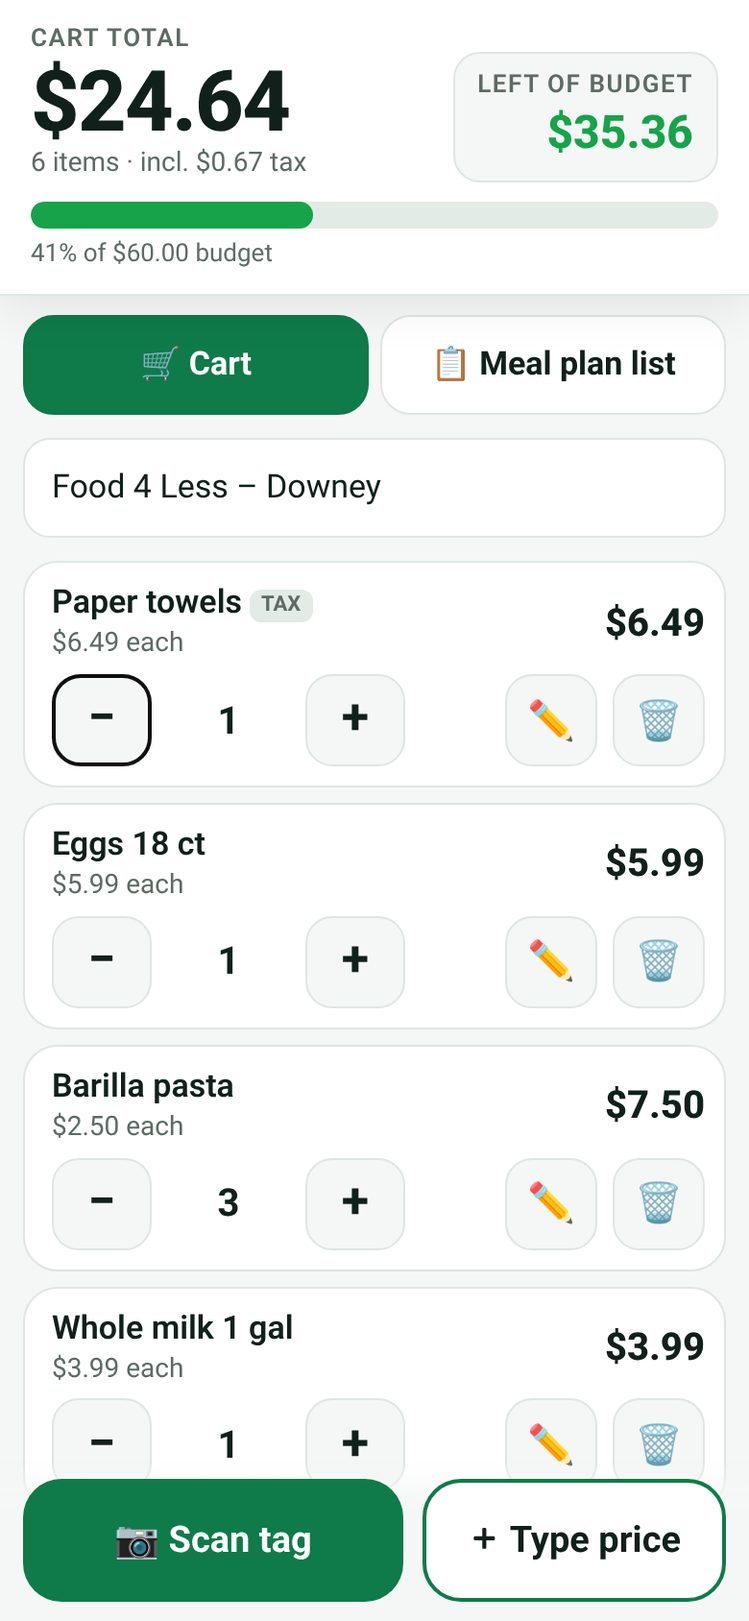
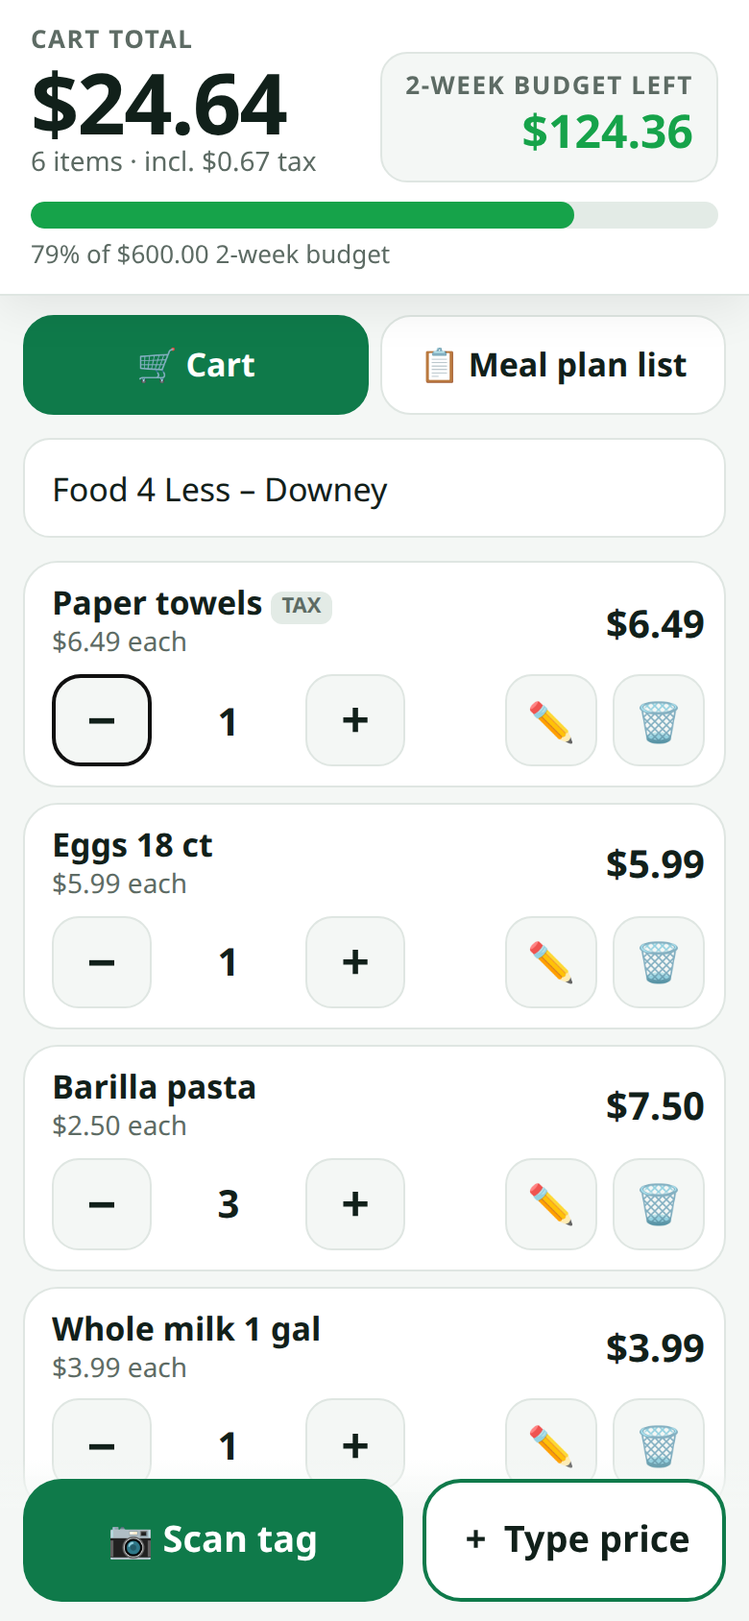
Count every spend figure as the full two-week trip
The cart budget, spent-so-far, and list estimate all come from the
combined both-weeks list and its check-offs. The budget is labeled as
a two-week amount; the saved number is left as stored.

diff --git a/app.js b/app.js
@@ -34,23 +34,26 @@
 
   // ---------------- render ----------------
   function totals() { return Core.computeTotals(state.items, { taxOn: state.taxOn, rate: state.taxRate, budget: state.budget }); }
+  /** Cart register total, plus the combined 2-week list (check-offs and what is still to buy). */
+  function trip() { var t = totals(); return { cart: t, spend: Plan.tripSpend(curItems(), state.items, t.total) }; }
 
   function render() {
-    var t = totals();
+    var now = trip(), t = now.cart, spend = now.spend;
     $('total').textContent = money(t.total);
     var parts = [fmtQty(t.count) + (t.count === 1 ? ' item' : ' items')];
     if (state.taxOn && t.taxableSubtotal > 0) parts.push('incl. ' + money(t.tax) + ' tax');
     else if (state.taxOn) parts.push('tax on taxable items: ' + state.taxRate + '%');
     $('subline').textContent = parts.join(' · ');
+    var against = Core.computeTotals([{ price: spend.projected, qty: 1 }], { taxOn: false, budget: state.budget });
     var sum = $('summary');
-    sum.dataset.level = t.level;
-    if (t.budget > 0) {
-      $('remaining').textContent = t.remaining < 0 ? money(-t.remaining) + ' over' : money(t.remaining);
-      var pct = Math.min(100, Math.round(t.pct * 100));
+    sum.dataset.level = against.level;
+    if (against.budget > 0) {
+      $('remaining').textContent = against.remaining < 0 ? money(-against.remaining) + ' over' : money(against.remaining);
+      var pct = Math.min(100, Math.round(against.pct * 100));
       $('barFill').style.width = pct + '%';
       $('bar').setAttribute('aria-valuenow', pct);
-      $('barCaption').textContent = t.level === 'over' ? 'Over budget by ' + money(-t.remaining) + ' — budget ' + money(t.budget)
-        : Math.round(t.pct * 100) + '% of ' + money(t.budget) + ' budget';
+      $('barCaption').textContent = against.level === 'over' ? 'Over the 2-week budget by ' + money(-against.remaining) + ' — budget ' + money(against.budget)
+        : Math.round(against.pct * 100) + '% of ' + money(against.budget) + ' 2-week budget';
     } else {
       $('remaining').textContent = 'Set budget';
       $('barFill').style.width = '0%';
@@ -220,7 +223,7 @@
     save(); render(); closeSheet(); buzz(25);
     if (wasAdd) {
       var t = totals();
-      toast('Added ' + money(Math.round(Math.round(price * 100) * qty) / 100) + (listName ? ' · ✓ ' + listName : '') + ' · total ' + money(t.total) + (t.level === 'over' ? ' — over budget!' : ''));
+      toast('Added ' + money(Math.round(Math.round(price * 100) * qty) / 100) + (listName ? ' · ✓ ' + listName : '') + ' · cart ' + money(t.total) + (trip().spend.projected > state.budget && state.budget > 0 ? ' — over the 2-week budget' : ''));
     }
   });
 
@@ -234,11 +237,11 @@
   $('dlgWrap').addEventListener('click', function (e) { if (e.target === this) closeDlg(); });
 
   $('budgetBtn').onclick = function () {
-    openDlg('Grocery budget',
-      '<div class="stack"><label class="field"><span>Budget for this week’s groceries</span><div class="price-input"><span>$</span><input id="bIn" inputmode="decimal" placeholder="0.00" value="' + (state.budget ? state.budget.toFixed(2) : '') + '"></div></label>' +
+    openDlg('2-week grocery budget',
+      '<div class="stack"><label class="field"><span>Budget for both weeks together</span><div class="price-input"><span>$</span><input id="bIn" inputmode="decimal" placeholder="0.00" value="' + (state.budget ? state.budget.toFixed(2) : '') + '"></div></label>' +
       '<div class="chips">' + [100, 150, 200, 250, 325, 400].map(function (v) { return '<button type="button" class="chip" data-b="' + v + '">$' + v + '</button>'; }).join('') + '</div>' +
       '<button class="btn primary xl" id="bSave">Save budget</button><button class="btn ghost" id="bClear">No budget</button>' +
-      '<p class="muted">The bar turns amber at 80% and red when you go over. Budget includes tax on taxable items.</p></div>',
+      '<p class="muted">This is the amount for the whole 2-week trip. Saving keeps whatever number is here — it is not recalculated. The bar turns amber at 80% and red when the trip goes over. Tax on taxable cart items is included.</p></div>',
       function (root) {
         var inp = root.querySelector('#bIn'); setTimeout(function () { inp.focus(); inp.select(); }, 60);
         root.querySelector('.chips').onclick = function (e) { var c = e.target.closest('.chip'); if (c) { inp.value = (+c.dataset.b).toFixed(2); } };
@@ -504,19 +507,20 @@
 
   var expandedDinners = {};
   function renderPlan() {
-    var wk = Meals.weeks[plan.week], items = curItems(), s = Plan.summary(items), t = totals();
+    var wk = Meals.weeks[plan.week], items = curItems(), t = totals();
+    var spend = Plan.tripSpend(items, state.items, t.total);
     Array.prototype.forEach.call($('weekSeg').children, function (b) { var on = b.dataset.week === plan.week; b.classList.toggle('on', on); b.setAttribute('aria-checked', on); });
-    var projected = Core.round2(t.total + s.remaining);
+    var projected = spend.projected;
     var level = !state.budget ? 'none' : projected > state.budget ? 'over' : projected >= 0.9 * state.budget ? 'warn' : 'ok';
-    var pct = s.total ? Math.round(s.checked / s.total * 100) : 0;
+    var pct = spend.total ? Math.round(spend.checked / spend.total * 100) : 0;
     $('planStats').dataset.level = level;
     $('planStats').innerHTML =
-      '<div class="ps-row"><div><div class="label">Estimated remaining</div><div class="ps-big" id="planRemaining">' + money(s.remaining) + '</div>' +
-      '<div class="sub">' + s.left + ' item' + (s.left === 1 ? '' : 's') + ' left' + (s.leftNoPrice ? ' (' + s.leftNoPrice + ' to check at home)' : '') + '</div></div>' +
-      '<div class="ps-right"><div class="label">Scanned</div><div class="ps-mid" id="planScanned">' + money(s.scanned) + '</div><div class="sub">' + s.scannedCount + ' list item' + (s.scannedCount === 1 ? '' : 's') + '</div></div></div>' +
+      '<div class="ps-row"><div><div class="label">Estimated remaining</div><div class="ps-big" id="planRemaining">' + money(spend.remaining) + '</div>' +
+      '<div class="sub">' + spend.left + ' item' + (spend.left === 1 ? '' : 's') + ' left' + (spend.leftNoPrice ? ' (' + spend.leftNoPrice + ' to check at home)' : '') + '</div></div>' +
+      '<div class="ps-right"><div class="label">Spent so far</div><div class="ps-mid" id="planSpent">' + money(spend.spent) + '</div><div class="sub">' + spend.scannedCount + ' list price' + (spend.scannedCount === 1 ? '' : 's') + '</div></div></div>' +
       '<div class="bar" role="progressbar" aria-label="List checked off" aria-valuemin="0" aria-valuemax="100" aria-valuenow="' + pct + '"><div class="fill" style="width:' + pct + '%"></div></div>' +
-      '<div class="bar-caption" id="planCaption">' + s.checked + ' of ' + s.total + ' checked · list estimate ' + money(s.estTotal) +
-      (state.budget ? '<br>Cart ' + money(t.total) + ' + est. remaining ' + money(s.remaining) + ' ≈ <b>' + money(projected) + '</b> of ' + money(state.budget) + ' budget' : '') + '</div>';
+      '<div class="bar-caption" id="planCaption">' + spend.checked + ' of ' + spend.total + ' checked · list estimate ' + money(spend.listTotal) +
+      (state.budget ? '<br>Spent ' + money(spend.spent) + ' + est. remaining ' + money(spend.remaining) + ' ≈ <b>' + money(projected) + '</b> of ' + money(state.budget) + ' 2-week budget' : '') + '</div>';
     var madeCount = madeSync.count(plan.week, wk.dinners);
     $('madeCount').textContent = madeCount.made + ' of ' + madeCount.total + ' made';
     $('dinners').innerHTML = wk.dinners.map(function (d, i) {
@@ -552,7 +556,7 @@
             '<span class="pmeta">' + esc(it.qty || '') + '</span></button>' +
             '<button class="pprice" data-act="menu" aria-label="Options">' + price + '</button></li>';
         }).join('') + '</ul></section>';
-    }).join('') || '<div class="empty"><p class="big">List is empty</p><p>Tap <b>Add item</b> or <b>Reset week</b>.</p></div>';
+    }).join('') || '<div class="empty"><p class="big">List is empty</p><p>Tap <b>Add item</b> or <b>Reset list</b>.</p></div>';
     $('planNote').textContent = Plan.source(Meals, listKey()).note;
     var nRemoved = Object.keys(plan.weeks[listKey()].removed).length;
     $('planRestoreBtn').hidden = !nRemoved;

diff --git a/mealplan.js b/mealplan.js
@@ -76,6 +76,36 @@
       total: items.length, checked: nChecked, scannedCount: nScanned, left: nLeft, leftNoPrice: nLeftNoPrice };
   }
 
+  /**
+   * One spend for the whole trip. listItems must be the combined both-weeks list (not one week).
+   * Spent = real prices on that list's check-offs, plus cart lines that are not already one of those check-offs
+   * (cartTotal is the tax-inclusive cart, so tax is counted once). Remaining = unchecked estimates on that same list.
+   * Projected = spent + remaining. The list total is every estimate, checked or not.
+   */
+  function tripSpend(listItems, cartItems, cartTotal) {
+    var s = summary(listItems);
+    var linked = {};
+    listItems.forEach(function (it) {
+      if (it.checked && it.cartId != null) linked[it.cartId] = true;
+    });
+    var linkedCents = 0, pretax = 0;
+    (cartItems || []).forEach(function (c) {
+      var lt = cents(lineTotal(c));
+      pretax += lt;
+      if (linked[c.id]) linkedCents += lt;
+    });
+    var cartCents = cartTotal == null ? pretax : cents(cartTotal);
+    var extraCents = cartCents - linkedCents;
+    if (extraCents < 0) extraCents = 0;
+    var spentCents = cents(s.scanned) + extraCents;
+    var remainingCents = cents(s.remaining);
+    return {
+      listTotal: s.estTotal, spent: spentCents / 100, remaining: s.remaining,
+      projected: (spentCents + remainingCents) / 100, scanned: s.scanned, scannedCount: s.scannedCount,
+      checked: s.checked, total: s.total, left: s.left, leftNoPrice: s.leftNoPrice
+    };
+  }
+
   /** Link a cart item to a list item (checks it off). Moves the link if the cart item was linked elsewhere. */
   function link(plan, week, itemId, cartItem) {
     unlinkCart(plan, cartItem.id);
@@ -151,7 +181,7 @@
     return state;
   }
 
-  return { source: source, weekItems: weekItems, groupBySection: groupBySection, summary: summary, link: link, unlinkCart: unlinkCart, toggle: toggle,
+  return { source: source, weekItems: weekItems, groupBySection: groupBySection, summary: summary, tripSpend: tripSpend, link: link, unlinkCart: unlinkCart, toggle: toggle,
     sync: sync, markBought: markBought, resetWeek: resetWeek, addCustom: addCustom, removeItem: removeItem, bestMatch: bestMatch,
     normalizePlan: normalizePlan, migrateBudget: migrateBudget, NEW_DEFAULT_BUDGET: NEW_DEFAULT_BUDGET, OLD_DEFAULT_BUDGET: OLD_DEFAULT_BUDGET, BUDGET_V: BUDGET_V };
 });

diff --git a/tests/combined.test.js b/tests/combined.test.js
@@ -32,3 +32,38 @@ test('combined list: plan state, summary and custom-item carry-over', () => {
   assert.equal(s.checked, 1);
   assert.equal(P.normalizePlan(plan, Meals).weeks.both.custom.length, 1, 'no duplicate carry-over on reload');
 });
+
+test('trip spend is the combined list, and a single week does not have its own total', () => {
+  const plan = P.normalizePlan({}, Meals);
+  const both = () => P.weekItems(Meals, plan, 'both', []);
+  const open = P.tripSpend(both(), [], 0);
+  assert.equal(open.listTotal, 451);
+  assert.equal(open.spent, 0);
+  assert.equal(open.remaining, 451);
+  assert.equal(open.projected, 451);
+  assert.equal(open.total, 69);
+  assert.notEqual(open.listTotal, 313);
+  assert.notEqual(open.listTotal, 138);
+  P.toggle(plan, '1', 'garlic');
+  assert.equal(P.tripSpend(both(), [], 0).projected, 451, 'week 1 check-off is not a separate spend');
+  assert.equal(P.tripSpend(both(), [], 0).checked, 0);
+  const garlic = both().find((i) => i.id === 'garlic');
+  P.toggle(plan, 'both', 'garlic');
+  const home = P.tripSpend(both(), [], 0);
+  assert.equal(home.listTotal, 451, 'list total stays the full estimate');
+  assert.equal(home.spent, 0);
+  assert.equal(home.remaining, 451 - garlic.est);
+  const onions = Meals.lists.both.items.find((i) => i.id === 'onions');
+  const cart = [{ id: 1, price: 2.99, qty: 1 }, { id: 2, price: 4, qty: 1 }];
+  P.link(plan, 'both', 'onions', cart[0]);
+  const shop = P.tripSpend(P.weekItems(Meals, plan, 'both', cart), cart, 6.99);
+  assert.equal(shop.spent, 6.99, 'check-off price plus the unlinked cart line, tax included once');
+  assert.equal(shop.remaining, 451 - garlic.est - onions.est);
+  assert.equal(shop.projected, Math.round((shop.spent + shop.remaining) * 100) / 100);
+  assert.equal(shop.listTotal, 451);
+  const grouped = P.groupBySection(Meals, P.weekItems(Meals, P.normalizePlan({}, Meals), 'both', []));
+  const week1 = P.groupBySection(Meals, P.weekItems(Meals, P.normalizePlan({}, Meals), '1', []));
+  assert.equal(Math.round(grouped.reduce((s, g) => s + g.est, 0) * 100) / 100, 451);
+  assert.notEqual(grouped.find((g) => g.id === 'produce').est, week1.find((g) => g.id === 'produce').est);
+  assert.equal(Meals.defaultBudget, 325);
+});

diff --git a/index.html b/index.html
@@ -27,12 +27,12 @@
       <div class="total" id="total">$0.00</div>
       <div class="sub" id="subline">0 items</div>
     </div>
-    <button class="budget-pill" id="budgetBtn" aria-label="Set budget">
-      <span class="label">Left of budget</span>
+    <button class="budget-pill" id="budgetBtn" aria-label="Set 2-week budget">
+      <span class="label">2-week budget left</span>
       <span class="remaining" id="remaining">Set budget</span>
     </button>
   </div>
-  <div class="bar" role="progressbar" aria-label="Budget used" aria-valuemin="0" aria-valuemax="100" id="bar"><div class="fill" id="barFill"></div></div>
+  <div class="bar" role="progressbar" aria-label="2-week budget used" aria-valuemin="0" aria-valuemax="100" id="bar"><div class="fill" id="barFill"></div></div>
   <div class="bar-caption" id="barCaption"></div>
 </header>
 

diff --git a/sw.js b/sw.js
@@ -1,5 +1,5 @@
 /* Tamayo Cart service worker: precache everything (incl. the OCR engine) so the app works offline. */
-var VERSION = 'tamayo-cart-v7'; // bump on every release so phones pick up new files
+var VERSION = 'tamayo-cart-v8'; // bump on every release so phones pick up new files
 var ASSETS = [
   './', './index.html', './styles.css', './parser.js', './meals.js', './recipes.js', './mealplan.js', './cooked.js', './app.js', './manifest.webmanifest',
   './icons/icon-192.png', './icons/icon-512.png', './icons/icon-maskable-512.png', './icons/apple-touch-icon.png',

diff --git a/tests/meal_list_test.py b/tests/meal_list_test.py
@@ -27,7 +27,11 @@ try:
             return ctx, pg
         ctx, page = mk('light')
         page.goto(URL); page.wait_for_load_state('networkidle')
-        check(page.inner_text('#remaining') == '$325.00', 'fresh install: default budget $325 (got %s)' % page.inner_text('#remaining'))
+        check('2-week' in page.inner_text('#budgetBtn').lower(), 'budget pill is labeled as a 2-week amount')
+        check(page.inner_text('#remaining') == '$126.00 over', 'header counts the full $451 trip against the $325 2-week budget (got %s)' % page.inner_text('#remaining'))
+        page.click('#budgetBtn')
+        check('both weeks' in page.inner_text('#dlgBody').lower() and page.input_value('#bIn') == '325.00', 'budget dialog is the 2-week amount and still shows 325.00')
+        page.click('#dlgClose')
 
         page.click('#tabPlan')
         check(page.is_visible('#planView') and not page.is_visible('#cartView'), 'Meal plan tab shows the list view')
@@ -36,6 +40,8 @@ try:
         w1 = dinners(); cap1 = page.inner_text('#planCaption'); rem1 = page.inner_text('#planRemaining')
         check(len(w1) == 7 and w1[0].startswith('Mon Salsa Beef'), 'week 1 shows 7 days of dinners')
         check('list estimate $451.00' in cap1 and rem1 == '$451.00', 'combined 2-week list estimate $451 and est. remaining $451 (%s / %s)' % (rem1, cap1.splitlines()[0]))
+        check('Spent $0.00 + est. remaining $451.00' in cap1 and 'of $325.00 2-week budget' in cap1, 'spend line is the full trip against the 2-week budget (%s)' % cap1.replace('\\n', ' | '))
+        check(page.inner_text('#planSpent') == '$0.00', 'spent so far starts at $0 on the combined list')
         check('both weeks' in page.inner_text('#listHead'), 'one shopping list for both weeks')
         secs = page.eval_on_selector_all('.sec-h span:first-child', 'els => els.map(e => e.textContent)')
         check(secs[0].endswith('Produce') and any('Meat' in s for s in secs) and any('Frozen' in s for s in secs), 'grouped by store section: ' + ', '.join(secs))
@@ -50,7 +56,7 @@ try:
         page.click('#weekSeg [data-week="2"]')
         w2 = dinners(); cap2 = page.inner_text('#planCaption'); rem2 = page.inner_text('#planRemaining')
         check(len(w2) == 7 and w2[0].startswith('Mon White Chicken Chili'), 'week 2 shows its dinners')
-        check('list estimate $451.00' in cap2 and page.locator('.pitem').count() == 69, 'switching dinners to week 2 keeps the same combined list (%s)' % cap2.splitlines()[0])
+        check('list estimate $451.00' in cap2 and 'of $325.00 2-week budget' in cap2 and page.locator('.pitem').count() == 69 and page.inner_text('#planSpent') == '$0.00', 'switching dinners to week 2 keeps the same combined spend (%s)' % cap2.splitlines()[0])
         check('estimates' in page.inner_text('#planNote'), 'list note says prices are estimates')
         report['week1'] = {'dinners': w1, 'caption': cap1, 'remaining': rem1}
         report['week2'] = {'dinners': w2, 'caption': cap2, 'remaining': rem2, 'items': page.locator('.pitem').count()}
@@ -67,6 +73,7 @@ try:
         page.fill('#fPrice', '2.99'); page.click('#sheetSave')
         check('$2.99' in page.inner_text('.pitem[data-id="onions"] .pprice'), 'linked item shows real scanned price')
         check(page.inner_text('#total') == '$2.99', 'linked item counts toward running cart total')
+        check(page.inner_text('#planSpent') == '$2.99', 'spent so far is that price on the combined list, not one week')
 
         # add from the dock, with name suggestion -> check off
         page.click('#addBtn'); page.fill('#fPrice', '4.19'); page.fill('#fName', 'Whole milk 1 gal'); page.fill('#fQty', '2')
@@ -120,22 +127,26 @@ try:
         page.wait_for_function('navigator.serviceWorker && navigator.serviceWorker.ready.then(()=>true)', timeout=60000)
         page.reload(); page.wait_for_function('!!navigator.serviceWorker.controller', timeout=60000)
         keys = page.evaluate("caches.keys()")
-        check('tamayo-cart-v7' in keys, 'service worker cache bumped to tamayo-cart-v7 (%s)' % keys)
-        cached = page.evaluate("caches.open('tamayo-cart-v7').then(c => Promise.all(['meals.js','mealplan.js'].map(f => c.match(f).then(r => !!r))))")
+        check('tamayo-cart-v8' in keys, 'service worker cache bumped to tamayo-cart-v8 (%s)' % keys)
+        cached = page.evaluate("caches.open('tamayo-cart-v8').then(c => Promise.all(['meals.js','mealplan.js'].map(f => c.match(f).then(r => !!r))))")
         check(all(cached), 'meals.js and mealplan.js are precached')
         ctx.set_offline(True); page.reload(); page.wait_for_load_state('domcontentloaded'); page.wait_for_timeout(500)
         check(page.locator('#dinners .dinner').count() == 7, 'meal list works offline')
         ctx.set_offline(False); ctx.close()
 
-        # budget migration: saved old default (0) -> 325; a custom budget is kept
-        for saved, want in [(0, '$325.00'), (60, '$60.00')]:
+        # budget migration: saved old default (0) -> 325; a custom budget is kept. The number is not doubled for two weeks.
+        for saved, shown, pill in [(0, '325.00', '$126.00 over'), (60, '60.00', '$391.00 over')]:
             c2, p2 = mk('light'); p2.goto(URL); p2.wait_for_load_state('networkidle')
             p2.evaluate("b => localStorage.setItem('tamayoCart.v1', JSON.stringify({items:[], budget:b, store:'', taxOn:true, taxRate:10.25, theme:'auto', nextId:1}))", saved)
             p2.reload(); p2.wait_for_load_state('networkidle')
-            check(p2.inner_text('#remaining') == want, 'migration: saved budget %s -> %s (got %s)' % (saved, want, p2.inner_text('#remaining')))
+            check(p2.inner_text('#remaining') == pill, 'migration: saved budget %s uses the full trip (%s)' % (saved, p2.inner_text('#remaining')))
+            p2.click('#budgetBtn')
+            check(p2.input_value('#bIn') == shown, 'migration: saved budget %s shows %s (got %s)' % (saved, shown, p2.input_value('#bIn')))
             if saved == 0:
-                p2.click('#budgetBtn'); p2.click('#bClear'); p2.reload(); p2.wait_for_load_state('networkidle')
+                p2.click('#bClear'); p2.reload(); p2.wait_for_load_state('networkidle')
                 check(p2.inner_text('#remaining') == 'Set budget', 'choosing "No budget" after upgrade sticks')
+            else:
+                p2.click('#dlgClose')
             c2.close()
 
         # dark mode render

diff --git a/tests/browser_test.py b/tests/browser_test.py
@@ -24,7 +24,8 @@ try:
         page.on('console', lambda m: errors.append('console.' + m.type + ': ' + m.text) if m.type == 'error' else None)
         page.goto(URL); page.wait_for_load_state('networkidle')
         check(page.title() == 'Tamayo Cart', 'title is Tamayo Cart')
-        check(page.inner_text('#remaining') == '$325.00', 'fresh install default weekly budget is $325.00')
+        check('2-week' in page.inner_text('#budgetBtn').lower(), 'budget pill is a 2-week amount')
+        check(page.inner_text('#remaining') == '$126.00 over', 'empty cart still counts the $451 2-week list (got %s)' % page.inner_text('#remaining'))
         # wait for SW to control the page
         page.wait_for_function('navigator.serviceWorker && navigator.serviceWorker.ready.then(()=>true)', timeout=60000)
         page.reload(); page.wait_for_function('!!navigator.serviceWorker.controller', timeout=60000)
@@ -32,9 +33,12 @@ try:
         manifest = page.evaluate("fetch('manifest.webmanifest').then(r=>r.json())")
         check(manifest['display'] == 'standalone' and len(manifest['icons']) >= 2, 'manifest ok (standalone, icons)')
 
-        # --- budget
-        page.click('#budgetBtn'); page.fill('#bIn', '60'); page.click('#bSave')
-        check(page.inner_text('#remaining') == '$60.00', 'budget set: remaining $60.00')
+        # --- budget: raise the stored 2-week number so the bar can still show ok, then warn, then over
+        page.click('#budgetBtn')
+        check('both weeks' in page.inner_text('#dlgBody').lower() and page.input_value('#bIn') == '325.00', 'dialog labels the 2-week budget and shows 325.00')
+        page.fill('#bIn', '600'); page.click('#bSave')
+        check(page.evaluate("JSON.parse(localStorage.getItem('tamayoCart.v1')).budget") == 600, 'saving writes the edited budget number')
+        check(page.inner_text('#remaining') == '$149.00', 'left of 2-week budget is 600 − 451 (got %s)' % page.inner_text('#remaining'))
         # --- manual add
         def add(price, name='', qty=None, taxable=False):
             page.click('#addBtn'); page.fill('#fPrice', price); page.fill('#fName', name)
@@ -50,11 +54,12 @@ try:
         page.click('#store'); page.fill('#store', 'Food 4 Less – Downey'); page.keyboard.press('Tab')
         page.wait_for_timeout(2500)
         page.screenshot(path=os.path.join(ROOT, 'screenshots', '01_cart_light.png'))
-        add('22.00', 'Chicken thighs family pack')   # 46.64 -> 77.7% ok
-        add('2.00', 'Tortillas')                       # 48.64 -> 81% warn
-        check(page.get_attribute('#summary', 'data-level') == 'warn', 'bar turns amber at >=80%')
-        add('15.00', 'Coffee')                         # 63.64 over
-        check(page.get_attribute('#summary', 'data-level') == 'over', 'bar turns red when over budget')
+        add('22.00', 'Chicken thighs family pack')   # cart 46.64; trip 497.64 is 83% of 600
+        check(page.get_attribute('#summary', 'data-level') == 'warn', 'bar turns amber at >=80% of the 2-week budget')
+        add('2.00', 'Tortillas')                       # cart 48.64; trip still in the warning band
+        add('15.00', 'Coffee')                         # cart 63.64; trip 514.64 is still under 600
+        page.click('#budgetBtn'); page.fill('#bIn', '500'); page.click('#bSave')
+        check(page.get_attribute('#summary', 'data-level') == 'over', 'bar turns red when the 2-week trip goes over the budget')
         check('over' in page.inner_text('#remaining'), 'remaining shows "over": ' + page.inner_text('#remaining'))
         # edit + remove + undo
         page.click('.item:has-text("Coffee") .info'); page.fill('#fPrice', '9.00'); page.click('#sheetSave')

diff --git a/README.md b/README.md
@@ -6,25 +6,21 @@ confirm it, and watch the running total against your budget — so there are no 
 * 100% static + offline PWA. No accounts, no server, no tracking, no ads. Data lives in the phone's localStorage.
 * OCR: Tesseract.js 5.1.1 (LSTM, `eng` 4.0.0_best_int), vendored in `vendor/tesseract/` — no CDN.
 * Hosting how-to: see `HOSTING.md` (not deployed).
-* Default weekly budget: **$325** (tap the budget pill to change it; "No budget" turns it off).
+* Default **2-week** budget: **$325** (the saved number is not changed by the list; tap the budget pill to edit it; "No budget" turns it off).
 
 ## 📋 Meal plan shopping list
 The **Meal plan list** tab turns the 2-week dinner plan from the *Tamayo Weeknight Meals* page into a store-ready list.
 
-* **One combined 2-week shopping list** (since Nov 10, 2026): week 1 and week 2 are merged into a single list with one total, so the family can shop both weeks in one trip. Items used in both weeks become one line showing each week's amount ("Wk 1: … · Wk 2: …"), and their estimates are added together (never lowered). **Week 1 / Week 2** only switches the dinners shown. The list is built in `meals.js` (`lists.both`, from `combineWeeks`). Estimates were raised to the real El Super (South Gate) prices paid on Nov 10, 2026 where those were higher (`elSuperPaid`; never lowered), so the 2-week list estimate is about $451.
-  de-duplicated grocery list grouped by store section (produce, meat, dairy, tortillas, canned, pantry, frozen, snacks).
+* **One combined 2-week shopping list** (since Nov 10, 2026): week 1 and week 2 are merged into a single list with one total, so the family can shop both weeks in one trip. Items used in both weeks become one line showing each week's amount ("Wk 1: … · Wk 2: …"), and their estimates are added together (never lowered). **Week 1 / Week 2** only switches the dinners shown. The list is built in `meals.js` (`lists.both`, from `combineWeeks`). Estimates were raised to the real El Super (South Gate) prices paid on Nov 10, 2026 where those were higher (`elSuperPaid`; never lowered), so the 2-week list estimate is about $451. The list is de-duplicated and grouped by store section (produce, meat, dairy, tortillas, canned, pantry, frozen, snacks).
 * **Check off** an item with the big box (e.g. you already have it), or tap the item → **Scan price** / **Type price**:
   the cart line is linked to that list item, so it's checked off with its real price. When you add any item from the
   dock, the sheet suggests a matching list item ("✓ Check off “Milk”?") or you can pick one from the dropdown.
-* The top card shows **Estimated remaining** (estimates of unchecked items), what you've **scanned** for list items,
-  and cart total + estimated remaining vs. the budget. Linked prices follow edits; deleting the cart line unchecks it;
-  after **Finish trip** the checked items keep their prices for the rest of the week.
+* The top card shows **Estimated remaining** (unchecked items on the combined list), **Spent so far** (real prices of those check-offs, plus anything in the cart that is not already a check-off), and **Spent + est. remaining ≈ one total** against the **2-week budget**. The cart pill uses that same 2-week total, not a single week. Linked prices follow edits; deleting the cart line unchecks it;
+  after **Finish trip** the checked items keep their prices.
 * **＋ Add item** for your own things (household, pet food…), remove items from the item menu (with Undo / Restore),
   and **↺ Reset list** to start the list over (your cart is not touched). Everything is saved in localStorage
   (`tamayoCart.plan.v1`).
-* Week 1 is the page's own list (~$280; includes breakfasts, lunches, snacks). The page has no week 2 list, so week 2
-  (~$111) is built from week 2's recipes and covers **dinners only**; all its prices are estimates (week 1 prices where
-  the item repeats, otherwise rough guesses). Spices, oil and rice are listed under "Check the pantry first".
+* The app does not show a week 1 total or a week 2 total. Week 1's source list includes breakfasts, lunches, and snacks; week 2's source list is dinners only, built from that week's recipes. Spices, oil and rice are listed under "Check the pantry first".
 
 ### Updating the meals
 Edit **`meals.js`** only: `meals` (the 19 dinners), `weeks['1'|'2'].dinners` and `.items`
